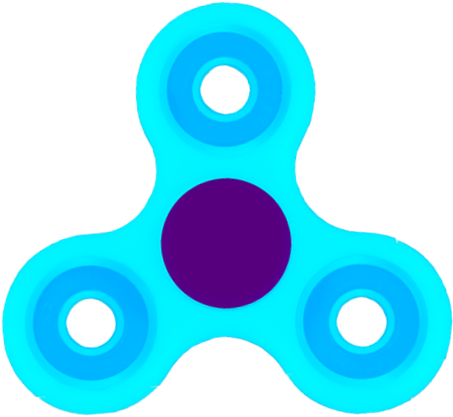
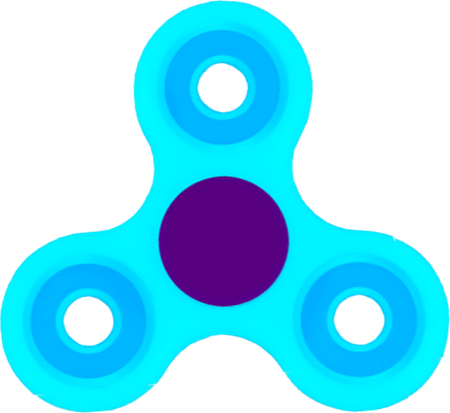
com

diff --git a/version2/style.css b/version2/style.css
@@ -69,7 +69,7 @@ body {
     width: 300px;
     height: 300px;
     background-image: url(../art_spinner_img-transformed.png);
-    background-position: bottom 48px right 15px;
+    background-position: bottom 49px right 14px;
     background-size: 90%;
     background-repeat: no-repeat;
     border-radius: 100%;
@@ -110,4 +110,17 @@ body {
           -ms-user-select: none; /* Internet Explorer/Edge */
               user-select: none; /* Non-prefixed version, currently
                                     supported by Chrome, Edge, Opera and Firefox */
+}
+
+.var-logo {
+    width: 60px;
+    height: 20px;
+    /* background-color: red; */
+    position: absolute;
+    top: 140px;
+    left: 120px;
+    background-image: url(../var_logo.png);
+    background-position: center;
+    background-repeat: no-repeat;
+    background-size: 100%;
 }

diff --git a/version2/index2.html b/version2/index2.html
@@ -30,6 +30,8 @@
         <div class="text noselect" id="text1">Виджет <br> на сайт</div>
         <div class="text noselect" id="text2">Виртуальный <br> шоурум</div>
         <div class="text noselect" id="text3">Фото/видео <br> студия</div>
+
+        <div class="text var-logo"></div>
     </div>
 
     <div class="title title-bottom"><h2>Выбери свой</h2></div>
